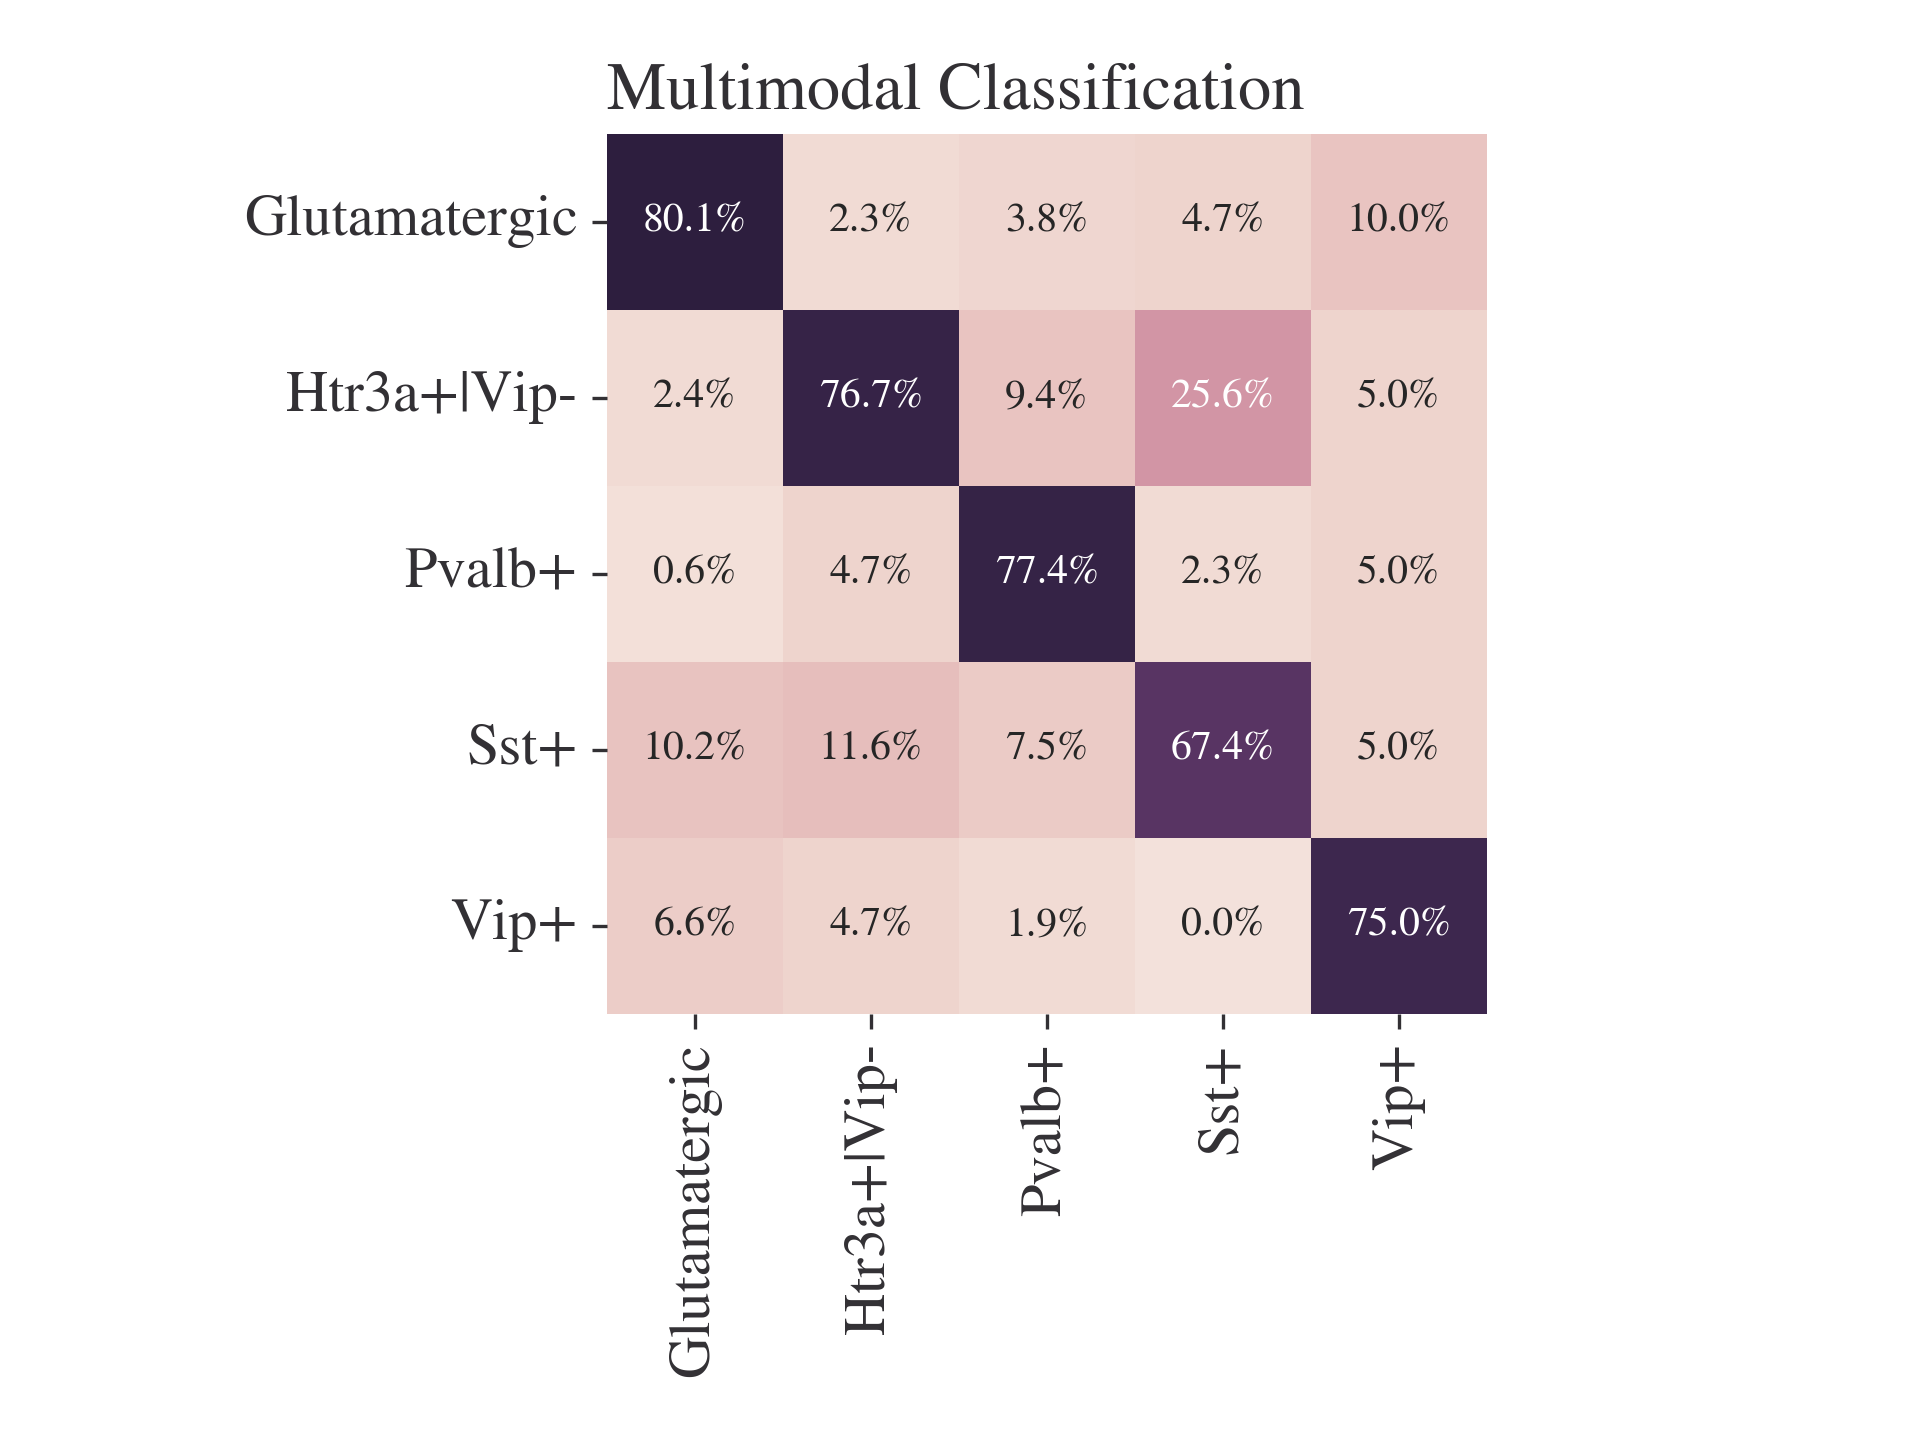
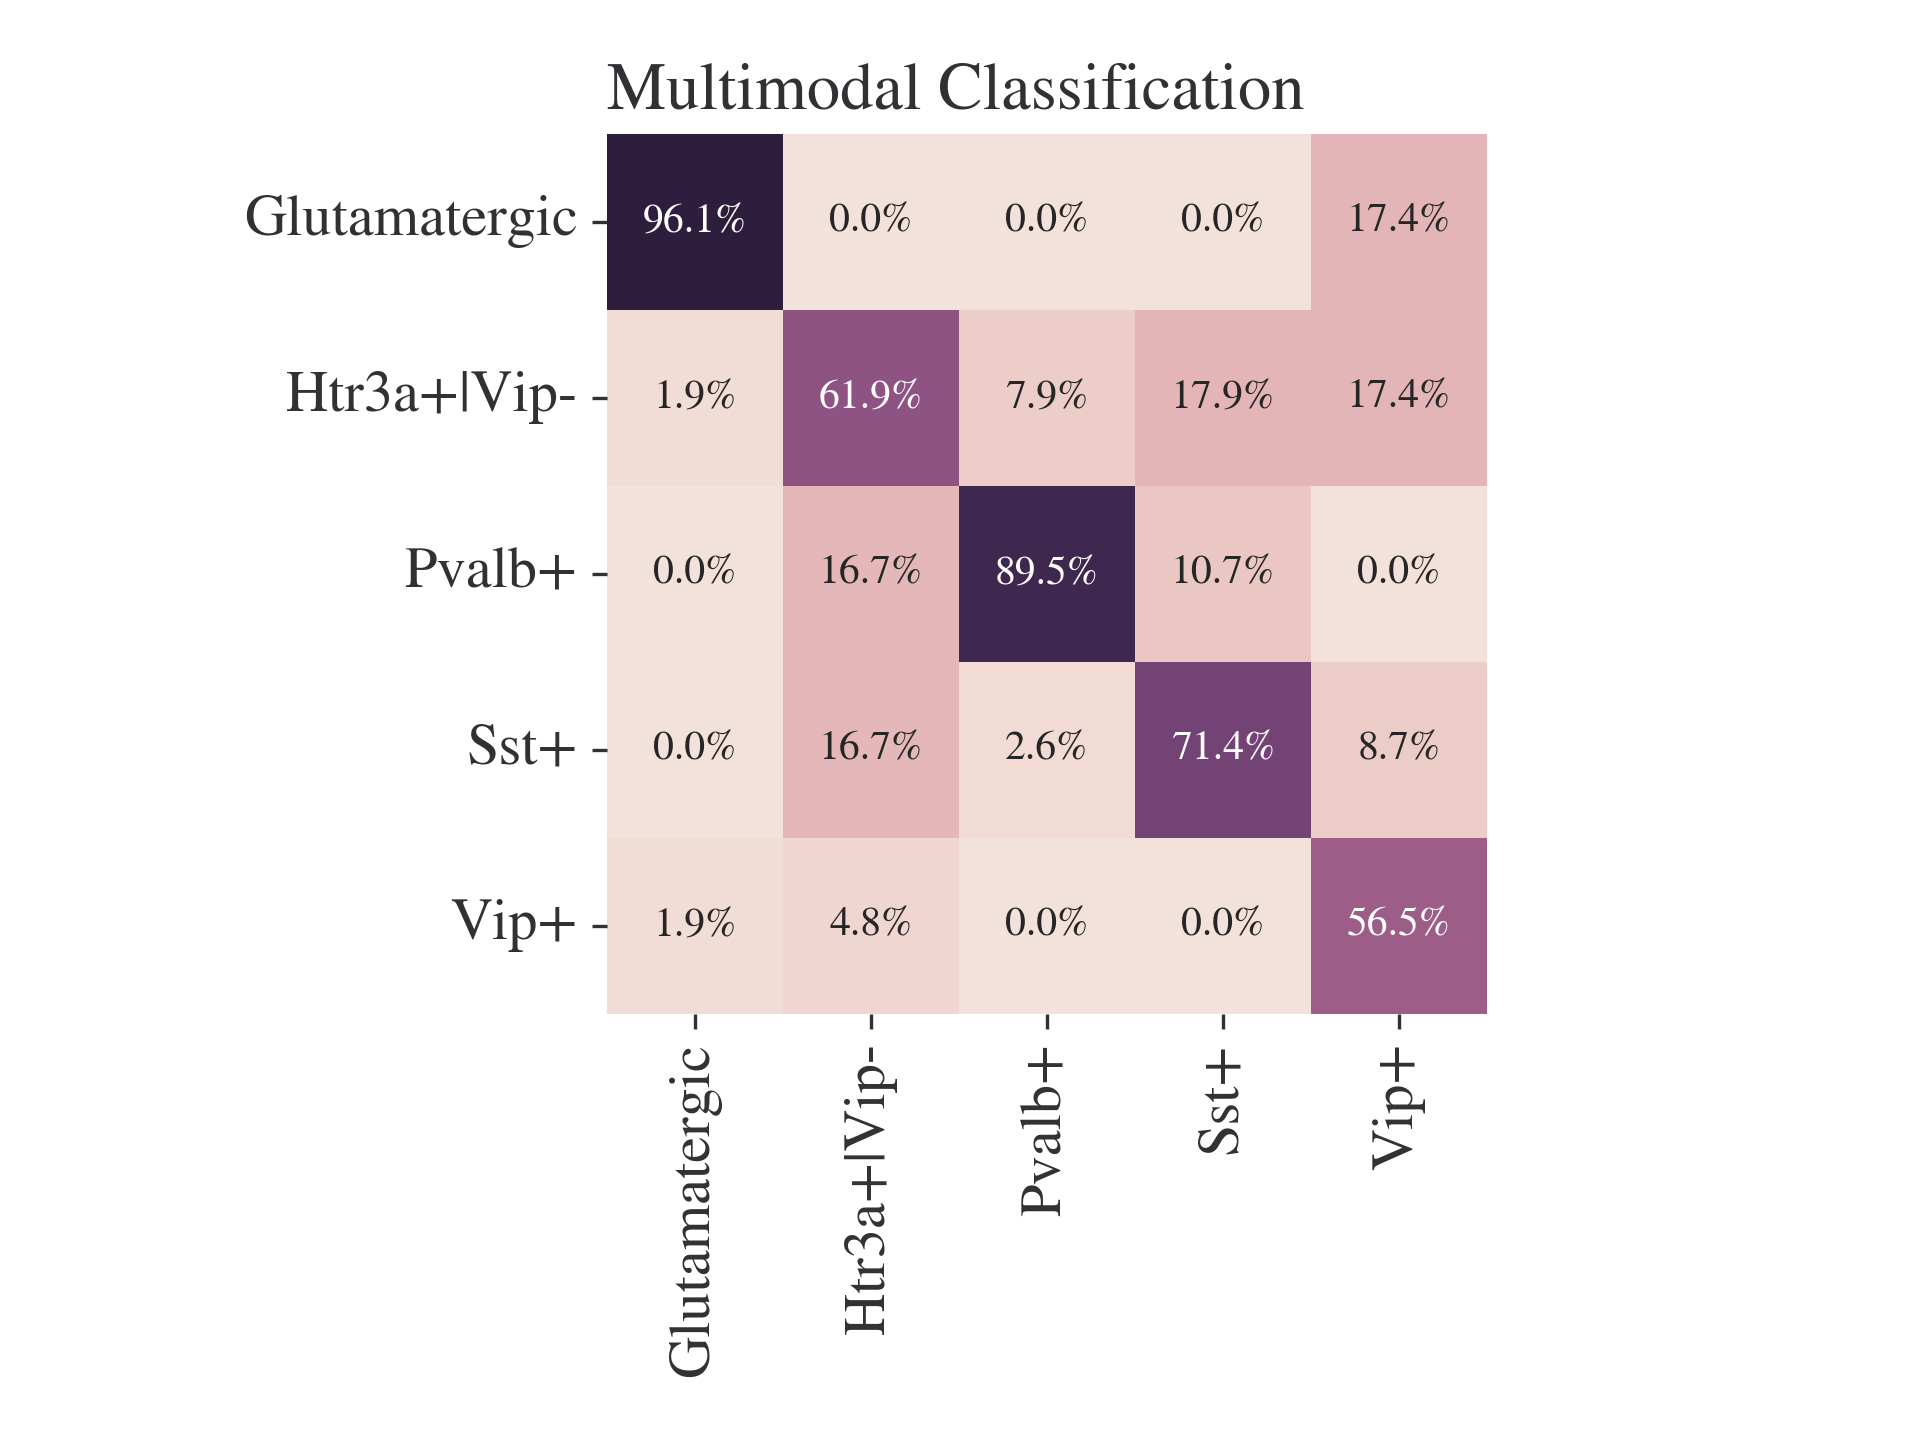
results for multimodal classification 0.845 accuracy

diff --git a/multimodal.py b/multimodal.py
@@ -13,6 +13,7 @@ from sklearn.model_selection import train_test_split
 from sklearn.utils.class_weight import compute_class_weight
 from sklearn.metrics import confusion_matrix
 from keras.utils.np_utils import to_categorical
+from sklearn.preprocessing import normalize
 
 from gpu_check import get_device
 import warnings
@@ -109,7 +110,7 @@ class SingleSpikeAnalyzer:
         x_train_time, x_test_time, y_train_time, y_test_time = train_test_split(features_time,
                                                                                 labels_time,
                                                                                 test_size=test_size,
-                                                                                random_state=42,
+                                                                                random_state=7,
                                                                                 shuffle=True)
 
         # normalize signal between 0 and 1
@@ -123,11 +124,12 @@ class SingleSpikeAnalyzer:
         x_train_fft, x_test_fft, y_train_fft, y_test_fft = train_test_split(features_fft,
                                                                             labels_fft,
                                                                             test_size=test_size,
-                                                                            random_state=42,
+                                                                            random_state=7,
                                                                             shuffle=True)
 
-        # normalize signal between 0 and 1
+        # normalize each column
         features_tabular = np.stack(features_tabular, axis=0)
+        features_tabular = normalize(features_tabular, axis=0, norm='max')
 
         # one hot encoding
         labels_tabular = to_categorical(np.array(labels_tabular), num_classes=5)
@@ -136,14 +138,13 @@ class SingleSpikeAnalyzer:
         x_train_tab, x_test_tab, y_train_tab, y_test_tab = train_test_split(features_tabular,
                                                                             labels_tabular,
                                                                             test_size=test_size,
-                                                                            random_state=42,
+                                                                            random_state=7,
                                                                             shuffle=True)
 
         return x_train_time, x_test_time, y_train_time, y_test_time,\
             x_train_fft, x_test_fft, y_train_fft, y_test_fft,\
             x_train_tab, x_test_tab, y_train_tab, y_test_tab
 
-    # TODO add tabular data
     @staticmethod
     def create_model(n_filters_t: tuple = (32, 32, 32),
                      n_filters_f: tuple = (32, 32, 32),
@@ -278,7 +279,7 @@ class SingleSpikeAnalyzer:
         n_units_f = trial.suggest_categorical("n_units_f", ([256, 128, 64],
                                                             [128, 64, 32],
                                                             [64, 32, 16]))
-        n_units_tab = trial.suggest_categorical("n_units_tab", ([10, 10], [10, 8], [11, 7]))
+        n_units_tab = trial.suggest_categorical("n_units_tab", ([11, 11], [10, 10]))
         n_conv1d_layers_t = trial.suggest_categorical("n_conv1d_layers_t", (1, 2, 3))
         n_conv1d_layers_f = trial.suggest_categorical("n_conv1d_layers_f", (1, 2, 3))
         n_dense_layers_t = trial.suggest_categorical("n_dense_layers_t", (1, 2, 3))
@@ -286,17 +287,17 @@ class SingleSpikeAnalyzer:
         n_dense_layers_tab = trial.suggest_categorical("n_dense_layers_tab", (1, 2))
         kernel_size_t = trial.suggest_categorical("kernel_size_t", (2, 3, 4, 5, 6))
         kernel_size_f = trial.suggest_categorical("kernel_size_f", (2, 3, 4, 5, 6))
-        stride_size_t = trial.suggest_categorical("stride_size_t", (1, 2, 3, 4))
-        stride_size_f = trial.suggest_categorical("stride_size_f", (1, 2, 3, 4))
+        stride_size_t = trial.suggest_categorical("stride_size_t", (1, 2, 3))
+        stride_size_f = trial.suggest_categorical("stride_size_f", (1, 2, 3))
         pool_size_t = trial.suggest_categorical("pool_size_t", (1, 2))
         pool_size_f = trial.suggest_categorical("pool_size_f", (1, 2))
         activation_t = trial.suggest_categorical("activation_t", ('relu', 'selu', 'swish', 'sigmoid', 'tanh'))
         activation_f = trial.suggest_categorical("activation_f", ('relu', 'selu', 'swish', 'sigmoid', 'tanh'))
         activation_tab = trial.suggest_categorical("activation_tab", ('relu', 'selu', 'swish', 'sigmoid', 'tanh'))
-        concatenate_size = trial.suggest_categorical("concatenate_size", (5, 10, 15, 20))
+        concatenate_size = trial.suggest_categorical("concatenate_size", (5, 10))
         optimizer = trial.suggest_categorical("optimizer", ('adam', 'sgd', 'rmsprop'))
-        batch_size = trial.suggest_categorical("batch_size", (32, 64, 128))
-        epochs = trial.suggest_categorical("epochs", (25, 50, 100, 150))
+        batch_size = trial.suggest_categorical("batch_size", (32, 64))
+        epochs = trial.suggest_categorical("epochs", (50, 100, 150, 200))
 
         self.model = self.create_model(n_filters_t=n_filters_t,
                                        n_filters_f=n_filters_f,
@@ -433,8 +434,7 @@ class SingleSpikeAnalyzer:
         plt.figure()
         cmap = sns.cubehelix_palette(light=0.9, as_cmap=True)
         cm_normalized = df_cm.div(df_cm.sum(axis=0), axis=1)
-        sns.heatmap(cm_normalized, cbar=False, annot=True, cmap=cmap, square=True, fmt='.1%',
-                    annot_kws={'size': 10})
+        sns.heatmap(cm_normalized, cbar=False, annot=True, cmap=cmap, square=True, fmt='.1%', annot_kws={'size': 10})
         plt.title('Multimodal Classification')
         plt.tight_layout()
         plt.draw()
@@ -450,7 +450,7 @@ class SingleSpikeAnalyzer:
 
 def main():
     model = SingleSpikeAnalyzer()
-    model.optimize(n_trials=100)
+    model.optimize(n_trials=200)
     model.plot_results()
     model.save_model()
 
